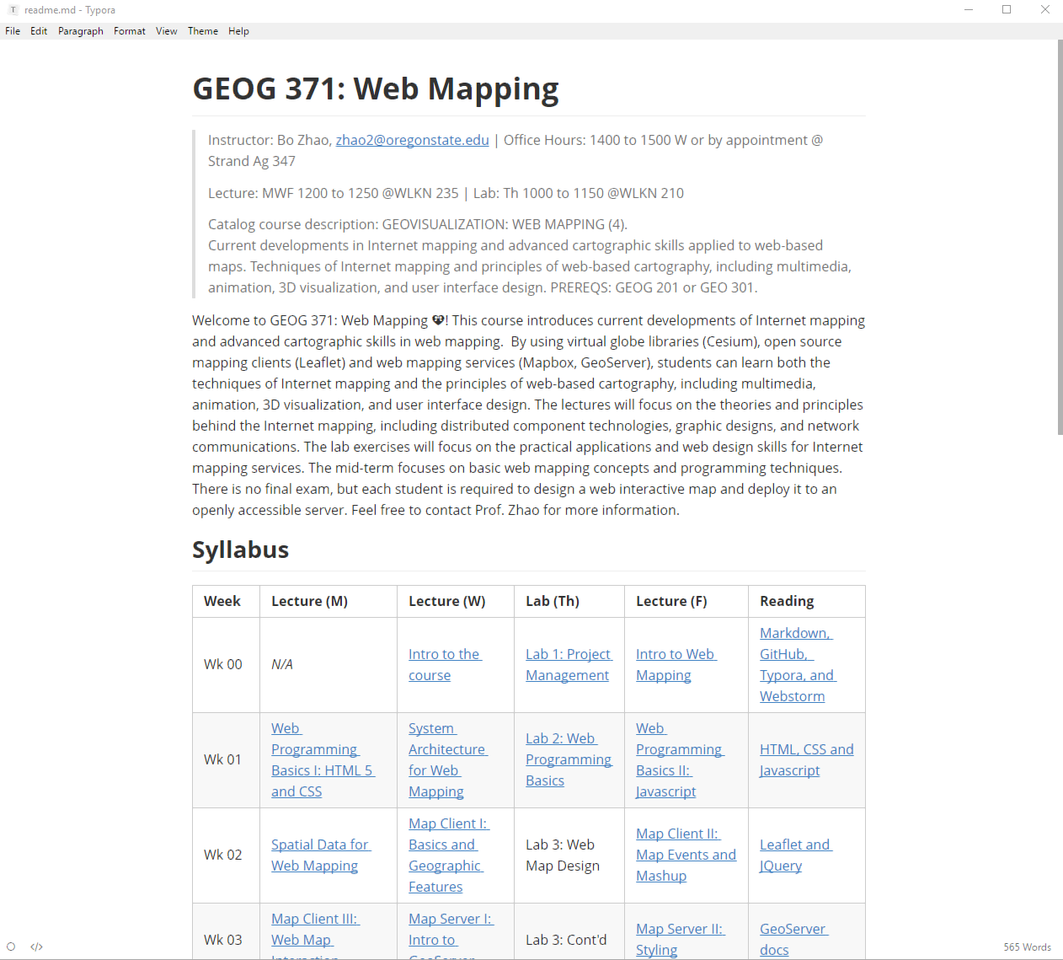
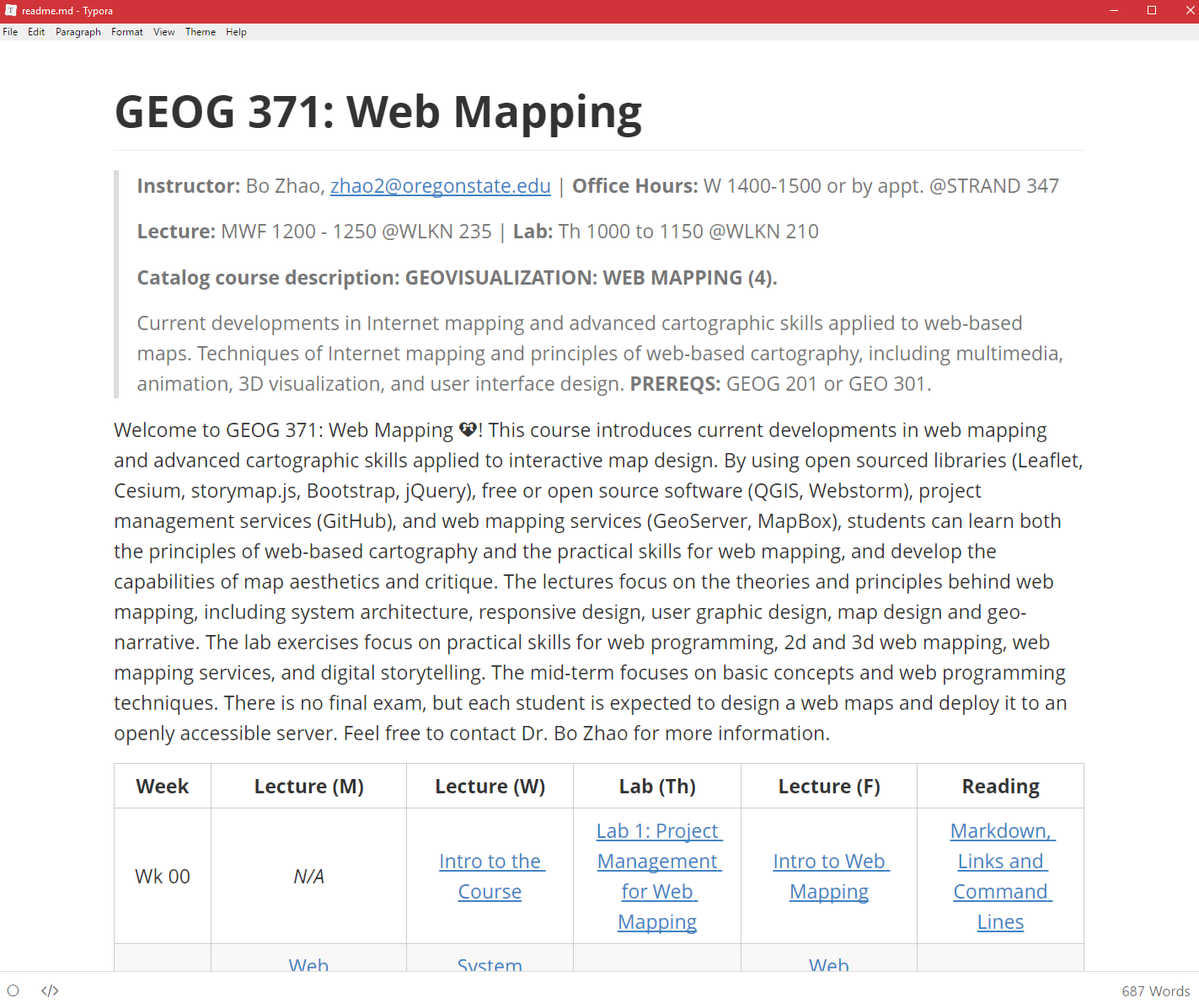
initial commit

diff --git a/labs/lab01/readme.md b/labs/lab01/readme.md
@@ -6,21 +6,21 @@
 >
 > **Assigned:** 09/21/2017 | **Due:** `09/28/2017 @11:59pm` | **Points Available** = 50
 
-Welcome to the lab session of GEOG 371: Web Mapping! As the first lab, we will introduce the Digital Earth Lab at Wilkinson 210, download the course material and more importantly, help you get familiar with the major operations on web mapping project management. You will start with installing the required software, registering a github account, and learn how to operate several software products, such as Webstorm, Typora, and Git. To test your learning outcomes, you will be asked to generate a  repository of your online resume on GitHub. Okay, let us get started!
+Welcome to the lab session of **GEOG 371: Web Mapping**! In this lab, we will briefly introduce the Digital Earth Lab at Wilkinson 210, download the course material and more importantly, help you get familiar with the major operations on project management for web mapping. In practice, you will start with installing the required software (on your own computer or laptop), registering a GitHub account, and learn how to use several software products, such as Webstorm, Typora, and Git. To test your learning outcomes, you will be asked to generate a  GitHub repository to publish your resume on the web. Okay, let us get started!
 
 # 1. Preparations
 
 ## 1.1 Digital Earth Lab @ Oregon State University
 
-Digital Earth Lab is a teaching facility primarily for GIS, remote sensing, cartography, numerical analysis, and scientific visualization. The classroom is a facility of the OSU College of Earth, Ocean, and Atmospheric Science and is supported by the OSU Media Services. The lab was originally funded by a NASA infrastructure grant to Sherm Bloomer (professor & Dean, College of Science) and Nick Pisias (professor & former associate dean of CEOAS). Digital Earth is located in 210 Wilkinson Hall and is one of the most advanced teaching facilities on the Oregon State campus. We have been operational since the beginning of Spring term, 1999.
+Digital Earth Lab is a teaching facility primarily for GIS, remote sensing, cartography, numerical analysis, and scientific visualization. The classroom is a facility of the OSU College of Earth, Ocean, and Atmospheric Science and is supported by the OSU Media Services. The lab was originally funded by a NASA infrastructure grant to Sherm Bloomer (Professor & Dean, College of Science) and Nick Pisias (Professor & former associate dean of CEOAS). Digital Earth is located in 210 Wilkinson Hall and is one of the most advanced teaching facilities on the Oregon State campus. We have been operational since the beginning of Spring term, 1999.
 
-The lab generally opens 8am-5pm , a detailed schedule can be found at [http://dusk.geo.orst.edu/de/de_teach.html](http://dusk.geo.orst.edu/de/de_teach.html). The manager of the facility is Cory Langhoff. If you need afterhours access, contact Cory Langhoff [langhofc@oregonstate.edu](mailto:langhofc@oregonstate.edu), or dial 7-2532 to make arrangements. Please ahead of time.
+The lab generally opens 8am-5pm , a detailed schedule can be found at [http://dusk.geo.orst.edu/de/de_teach.html](http://dusk.geo.orst.edu/de/de_teach.html). The manager of the facility is Cory Langhoff. If you need afterhours access, contact Cory by email [langhofc@oregonstate.edu](mailto:langhofc@oregonstate.edu), or dial 7-2532 to make arrangements.
 
 ## 1.2 Software Setup
 
-For this lab, your computer will need to install the following software:
+For this lab, you will use Webstorm, typora and git. Also these software products have already been installed in the computers in the Digital Earth Lab, except Typora (but you can always use text editor alternatives, such as Webstorm, Notepad, Brackets, and etc.). But I highly recommend you to install all these three.
 
-- **Webstorm:** A professional web mapping programming development environment ([Click here for the installation instruction](https://www.jetbrains.com/webstorm/buy/#edition=discounts)). and make sure you install the edition **for students and teachers**). Check a turoial on install Webstorm at [here](install_webstorm.md);
+- **Webstorm:** A professional web mapping programming development environment ([Click here for the installation instruction](https://www.jetbrains.com/webstorm/buy/#edition=discounts)). and make sure you install the edition **for students and teachers**). Check a tutorial on installing Webstorm at [here](install_webstorm.md);
 
 - **Typora:** An editor for composing Markdown files ([Click here to download Typora](https://typora.io/)). Typora is dedicated to process markdown files. It can browse, edit, and even convert markdown files to pdf or word documents; and
 
@@ -30,13 +30,13 @@ If **Git** is successfully installed, type `git` in command prompt (if you are a
 
 ![](img/git-command.png)
 
-Once you have `git`  up and running, you can sync the course material and also publish your own project repository.  We will talk about that in details in the following sections of this lab.
+Using `git`, you can synchronize the course materials and also publish your own GitHub repository.  We will talk about that later in this lab.
 
-### 1.3 Register a Github account
+### 1.3 Register a GitHub account
 
-1\. You will apply for a Github account for managing and sychronizing your web mapping project. If you do not have a Github account yet, please sign up at [https://www.github.com](https://www.github.com)
+1\. You will apply for a GitHub account for managing and synchronizing your web mapping project. If you do not have a GitHub account yet, please sign up at [https://www.github.com](https://www.github.com)
 
-> **Do you know the differences between Git and Github?**
+> **Do you know the differences between Git and GitHub?**
 >
 > **Git** is a version control system (VCS) for tracking changes in computer files and coordinating work on those files among multiple people. It is primarily used for software development, but it can be used to keep track of changes in any files. Git was created by **Linus Torvalds** in 2005 for development of the Linux kernel, with other kernel developers contributing to its initial development.
 >
@@ -44,22 +44,22 @@ Once you have `git`  up and running, you can sync the course material and also p
 
 ## 2\. Download the course material
 
-In this course, all the material is stored on GitHub. We will go through the steps how to download the course materials as below.
+In this course, all the material is stored on GitHub. We will go through the steps on how to download the material as below.
 
-1\. Every project is stored on GitHub as a repository. The repository for this course is located at [https://github.com/jakobzhao/geog371](https://github.com/jakobzhao/geog371). Please navigate to this url on a browser like Chrome. As shown, this course is created by me, my GitHub account name is `jakobzhao`, and the repository name is `geog371`. 
+1\. On GitHub, each project is stored as a project repository. The repository for this course is located at [https://github.com/jakobzhao/geog371](https://github.com/jakobzhao/geog371). Please navigate to this url on a browser such as `Chrome`. As indicated by the course website url, this repository is created by me; my GitHub account name is `jakobzhao`, while the repository name is `geog371`. 
 
 2\. On the front page of this repository, please click the green button named after `Clone or download` . To download the course material, you can click the `Download ZIP` button, as a result, a compressed file of the course material will be downloaded. 
 
-3\. However, we recommend you to clone this project repository. You can get the **git url** of this repository on the popped up information panel [https://github.com/jakobzhao/geog371.git](https://github.com/jakobzhao/geog371.git).
+3\. However, **we recommend you to clone this project repository**. You can get the **git url** of this repository on the same information window. The git url is [https://github.com/jakobzhao/geog371.git](https://github.com/jakobzhao/geog371.git).
 
-4\. Next, open your working space on your own computer through commend prompt if you are a Windows user or through terminal if you are a Mac or Linux user. For example, the working space of my computer is located as `C:\Workspace`.
+4\. Next, open your working space on your local computer through command prompt if you are on Windows or through terminal if you are on a Mac or Linux. For example, the working space of my computer is located as `C:\Workspace`.
 
 ```powershell
 C:\Users\[your_username]>cd C:\Workspace
 C:\Workspace>
 ```
 
-5\. Having the **git url**, we can use the command `git clone` in order to clone/download the repository of the course materials. 
+5\. Having the **git url**, we will need to use the command `git clone`to clone the GitHub repository. 
 
  ```powershell
 C:\Workspace\git clone https://github.com/jakobzhao/geog371.git
@@ -72,7 +72,7 @@ Resolving deltas: 100% (214/214), done.
 Checking out files: 100% (650/650), done.
  ```
 
-6\. To read the content in the downloaded repository, we need to `cd` into the directory of this repository. If you are on a Mac or Linux, type `ls` to check the file list of this repository, or try `dir` if you are on a Windows. Take windows for example.
+6\. To review the files and folders in the downloaded/cloned repository, you need to `cd` into the root directory of this repository. If you are on a Mac or Linux, type `ls` to check the file list of this repository, or try `dir` if you are on a Windows. Take windows for example.
 
 ```powershell
 C:\Workspace>cd geog371
@@ -87,7 +87,6 @@ C:\Workspace\geog371>dir
 09/19/2017  09:12 PM    <DIR>          ..
 09/19/2017  01:41 AM               412 .gitignore
 09/19/2017  09:49 PM    <DIR>          .idea
-09/19/2017  01:41 AM    <DIR>          img
 09/19/2017  02:19 AM    <DIR>          labs
 09/19/2017  01:41 AM    <DIR>          lectures
 09/19/2017  01:41 AM             7,816 LICENSE
@@ -96,16 +95,16 @@ C:\Workspace\geog371>dir
 09/19/2017  04:35 AM             6,011 readme.md
 09/19/2017  01:41 AM    <DIR>          resources
                3 File(s)         14,239 bytes
-               9 Dir(s)  903,569,551,360 bytes free
+               8 Dir(s)  903,569,551,360 bytes free
 ```
 
-In the root of this downloaded repository, there are folders like labs, lectures and readings, and files like readme.md and LICENSE. 
+In the root directory, there are folders like labs, lectures and readings, and files like readme.md and LICENSE. 
 
 7\. Next, we open the `readme.md` file using `Typora`.  If the previous steps work successfully, we can read the similar content as shown below.
 
 ![](img/typora_syllabus.png)
 
-8\. One benefits of hosting the course material on GitHub is that you can easily update your project repository by implementing a combination of two command lines `git checkout --force` and `git pull` in the root directory of the repository. Once the two commands are executed. An update notice will be shown as below.
+8\. Once the course material is hosted on GitHub, it can be easily shared with a larger community and update. To synchronize the course material on remote GitHub repository to your local computer, you need to implement two sequential command lines `git checkout --force` and `git pull` in the root directory of the repository. Once the two commands are executed. An update notice will be shown as below.
 
 ```powershell
 C:\Workspace\geog371>git checkout --force
@@ -125,36 +124,36 @@ Fast-forward
 
 Now, the course material on your local computer is updated. 
 
-> **Note:** In order to ensure you are reading the latest version of the lecture or lab handouts, you need to synchronize the course material, especially before class. 
+> **Note:** To ensure you are reading the latest version of the lecture or lab handouts, you need to regularly synchronize the course material, especially before class. 
 >
-> If you implement the above two commands in a Mac or Linux system, you might need to add `sudo` before `git`to preventing a lack of privilege issue. For example, `sudo git clone`, `sudo git checkout --force`. In general, the command `sudo` will assign the superuser privilege to the current command line. 
+> If you implement the above two commands in a Mac or Linux system, you might need to add `sudo` before `git`to a lack-of-privilege issue. For example, `sudo git clone`, `sudo git checkout --force`. In general, the command `sudo` will assign the superuser privilege to the command line. 
 
-9\. Before we jump to the next section, please
+9\. Before we jump to the next section, please:
 
 - Star the repository by pressing the `star` button on the top right, and;
 - Navigate to Dr. Zhao's front page at [https://github.com/jakobzhao](https://github.com/jakobzhao), and click the `Follow` button to be a follower. 
 
 ## 3\. Project management
 
-In this section, we will introduce a series of operations related to project management, such as create a project repository, compile a markdown file, and upload files to GitHub, and at last, publish a repository.
+In this section, we will introduce a series of operations related to project management, such as create a project repository, compile a markdown file, and upload files to GitHub, and at last, publish a repository. As a practice, we will build a GitHub repository for your online resume.
 
 ### 3.1 Create a repository for your project
 
-1\. Navigate to [https://github.com/new](https://github.com/new), and input the your repository name in the blank text box for `Repository name`. For example, the repository name of the course material is `geog371`. Here, please name your repository in the format of **[account_username].github.io**. So, if your account_username is `jakobzhao`, this repository name will be **jakobzhao.github.io**. 
+1\. Navigate to [https://github.com/new](https://github.com/new), and input your repository name in the blank text box for `Repository name`. Here, please name your repository in the format of **[account_username].github.io**. So, if your account_username is `jakobzhao`, this repository name will be **jakobzhao.github.io**. 
 
 ![""](img/create-new-repository-2.png)
 
-2\. Also, please makes sure you **CHECK** the box "Initialize this repository with a README". For other options, you can leave them by default. 
+2\. Besides, make sure you **CHECK** the box `Initialize this repository with a README`. You can leave other options by default. 
 
 ![](img/create-new-repository-3.png)
 
-3\. Next, click the `Create repository` button. A new repository `[account_username].github.io` is accordingly created. You can access this repository through the link `https://github.com/[account_username]/[account_username].github.io`. For example,  for the repository I just created, I can access the repository through the link [https://github.com/jakobzhao/jakobzhao.github.io](https://github.com/jakobzhao/jakobzhao.github.io).
+3\. Next, click the `Create repository` button. As a result, a new repository `[account_username].github.io` is created. You can access this repository through the link `https://github.com/[account_username]/[account_username].github.io`. For example,  you can access the repository I created through this link [https://github.com/jakobzhao/jakobzhao.github.io](https://github.com/jakobzhao/jakobzhao.github.io).
 
-### 3.2 Compile a Markdown file
+### 3.2 Craft a Markdown file
 
-1\. On your local computer, please create a file, and name it `resume.md`.
+1\. On your local computer, create a text file, and name it `resume.md`.
 
-2\. Open this file `resume.md` with `Typora`. In the editor, you can start to craft your resume. If you are not familiar with Markdown, copy and paste the template below to get started.
+2\. Open this file `resume.md` with `Typora`. In the Typora's editor, you can work on your resume. If you are not familiar with Markdown, please refer to a tutorial at [here](https://guides.github.com/features/mastering-markdown/). Or you can start with copying and pasting the template below.
 
 ```markdown
 #Your Name
@@ -218,27 +217,29 @@ Summary of your role
 ```
 >**Note:** This resume template is from [http://www.jasonfilley.com/resumeinmarkdown.html](http://www.jasonfilley.com/resumeinmarkdown.html).
 
-3\. In fact, you can use any text editor to generate Markdown files. If you do not have `Typora` at hand, you can also use `Webstorm` to craft Markdown files. To enable `Webstorm` to recognize the markdown syntax, you need to install a plugin named `Markdown Navigator`. To do that, open `Webstorm`, on the top menu, navigate through `File->Settings...`. In the popped up wind, click `Plugins` tab, and then click the "install jetbrain plugin.." on the bottom left of the window. In the newly poped-up window, search "markdown navigator" in the search box, as a result, the plugin "Markdown Navigator" appears, and you will need to install this plugin by pressing the green botton "install". Once installed, you will need to restart `WebStorm` to activiate this change. Please let the instructor know if you meet any difficulty in installing this plugin.
+3\. In fact, you can use any text editor to generate Markdown files. If you do not have `Typora` at hand, you can use `Webstorm` as well. To enable `Webstorm` to recognize the markdown syntax, you will need to install a plugin named `Markdown Navigator`. To do that, open `Webstorm`, on the top menu, navigate through `File->Settings...`. In the popped up window, click `Plugins` tab, and then click the `install jetbrain plugin...` on the bottom left of the window. In the newly popped-up window, search "markdown navigator" in the search box, as a result, the plugin "Markdown Navigator" will be found out. Then, you will need to install this plugin by pressing the green button `install`. Once installed, you might want to restart `WebStorm` to activate this change. Please let the instructor know if you meet any difficulty in installing this plugin.
 
 ### 3.3 Upload files to GitHub
 
-Once you have drafted out your resume in the `resume.md` file. You will upload this file to the **root** of the project repository `https://github.com/[account_username]/[account_username].github.io` on GitHub. You can use two ways as listed below interchangeably.
+Once you have drafted out your resume in the `resume.md` file. You will upload this file to the **root** of the project repository `https://github.com/[account_username]/[account_username].github.io` . In general, there are three solutions to complete this task, we will introduce them one by one.
 
 #### 3.3.1 Drag & drop
 
-1\. Since the `resume.md` file will be uploaded to the root of the repository, you need to navigate to the front page of your repository `https://github.com/[account_username]/[account_username].github.io` using a web browser such as Chrome.
+1\. Open a web browser such as `Chrome`, navigate to the front page of the repository you have just created.
 
-2\. Next, use your mouse to drag the `resume.md` file to the front page of the project repository. Once you see a notice saying **Drop to upload your files**, you can now release your mouse. A new interface will appear as below. Certainly, you can drag and drop multiple files and/or folders. In this lab, we just upload one single file.
+2\. Next, use your mouse to drag the `resume.md` file to the front page. Once you see a notice saying **Drop to upload your files**, you can then release your mouse. A new interface will appear as below. 
+
+> **Note:** Certainly, you can drag and drop multiple files and/or folders. In this lab, we just upload one single file.
 
 ![](img/after-the-drop.png)
 
-3\. Before you press the green button `Commit Changes`, you can add a name and/or some descriptions for this commit. It will help you organize and keep a record of your repository.
+3\. Before pressing the green button `Commit Changes`, you might want to add a title and/or some descriptions for this commit. It will help you organize your commits.
 
 #### 3.3.2 Git push
 
-You can also upload the `resume.md` through `git push` command.
+You can also upload the `resume.md` through `git push` command on either command prompt or terminal.
 
-1\. Download the repository   `https://github.com/[account_username]/[account_username].github.io`  following the instruction in Section 2 ***"Download the course material”***.
+1\. Download the repository  `https://github.com/[account_username]/[account_username].github.io`  following the instruction in Section 2 ***"Download the course material”***.
 
 2\. In the root directory of the downloaded repository, please copy the edited `resume.md` to the root.
 
@@ -246,82 +247,68 @@ You can also upload the `resume.md` through `git push` command.
 
 ```powershell
 c:\Workspace\jakobzhao.github.io>git commit -m "update the resume.md"
-[master a85f998] update the resume.md
- 1 files changed, 106 insertions(+), 32 deletions(-)
- create mode 100644 labs/lab01/img/after-the-drop.png
- 
 c:\Workspace\geog371>git push
-fatal: TaskCanceledException encountered.
-   A task was canceled.
 Username for 'https://github.com': jakobzhao
 Password for 'https://jakobzhao@github.com':
-Counting objects: 9, done.
-Delta compression using up to 8 threads.
-Compressing objects: 100% (9/9), done.
-Writing objects: 100% (9/9), 99.58 KiB | 0 bytes/s, done.
-Total 9 (delta 4), reused 0 (delta 0)
-remote: Resolving deltas: 100% (1/1), completed with 4 local objects.
-To https://github.com/jakobzhao/jakobzhao.github.io.git
-   b237d06..a85f998  master -> master
 ```
 
-> **Note:** Again, if you use a Mac or Linux, you might need to add `sudo` in front of the command line to avoid the privilege deny issue.
+> **Note:** Again, if you use a Mac or Linux, you might need to add `sudo` in front of the command line to avoid the privilege deny issue. Besides, the command prompt or terminal may ask you for GitHub username and password, please be prepared with such information.
 >
-> Also, the command prompt or terminal may ask you for GitHub username and password, please be prepared with such information.
 
 #### 3.3.3 WebStorm Commit
 
-We can also use Webstorm to upload files to github repository or more geranlly, commit changes. Compared with the first two solutions, I personally recommend you use Webstrom if you prefer graphic user interfaces and work on your local computer.
+We can also use Webstorm to upload files to GitHub repository or more generally, commit changes. Compared with the first two solutions, I recommend you use Webstorm if you prefer graphic user interfaces.
 
-1\. Download the repository   `https://github.com/[account_username]/[account_username].github.io`  following the instruction in Section 2 ***"Download the course material”***.
+1\. Download the repository  `https://github.com/[account_username]/[account_username].github.io`  following the instruction in Section 2 ***"Download the course material”***.
 
 2\. In the root directory of the downloaded repository, please copy the edited `resume.md` to the root.
 
-3\. Open the prorgam `Webstorm`. By default, the welcome window will pop up. In this welcome window, click `Open` button on the bottom right. Then, another new window `Open File or Project` will pop up. Seelct the downloaded repository. The name should be in the format of `[account_username].github.io`.
+3\. Open the program `Webstorm`. By default, the welcome window will pop up. In this welcome window, click `Open` button on the bottom right. Then, another new window `Open File or Project` will pop up. Select the downloaded repository. The name should be in the format of `[account_username].github.io`.
 
 ![](img/open_webstorm_project.png)
 
 
-4\. Once you open this repository, you can edit the `resume.md`.
+4\. Once you open this repository, you can edit the `resume.md` in Webstorm.
 
-5\. To update any edit changes, on the top menu, Click `VCS` on the top menu, and then 'commit...` on the dropdown menu.
+5\. To update any edit changes, on the top menu, Click `VCS` on the top menu, and then `commit...` on the dropdown menu.
 
-6\. On the poped up `Commit Changes` window, make sure you check the `Unversioned Files` box if there is, also, you need to leave the `Commit Message` and input the name of the author who made this change.
+6\. On the popped-up `Commit Changes` window, make sure you check the `Unversioned Files` box if there is, also, you need to leave some message in the `Commit Message` textbox and input the name of the author who made this change.
 
 ![](img/commit_change.png)
 
-7\. Before you commit, hover your mouse on the `Commit` button, then a dropdown menu will show up, **Choose `Commit and Push...`**. Then on the newly poped up window, click "push" to finish.
+7\. Before you commit, hover your mouse on the `Commit` button, then a dropdown menu will show up, **Choose `Commit and Push...`**. Then on the newly popped up window, click `push` to finish.
 
 
 > **Note**: As you might already aware of, the first two steps are as same as those in the solution 2. The difference is, solution 2 works on a terminal/command prompt environment (a command-lline user interface), while solution 3 works in Webstorm (a graphic user interface).
 >
-> Using either of the three solutions, you can upload your resume or any other files to github. Then, log on to this repository on github to see whether the uploaded content is applied.
-
+> Using either of the three solutions, you can upload your resume or any other files to GitHub. Then, log on to this repository on GitHub to see whether the uploaded content is applied.
+>
+> Now you have already known how to commit a change. In practice, you will use this operation very frequently. Other than committing changes, you may also need to synchronize your latest version of your GitHub repository. Please think about how can we do that on Webstorm.
 
 ### 3.4 Publish your repository
 
-Once you uploaded the `resume.md` to the root, you can see your resume showing on the front page. Moreover, GitHub provide a new function named **GitHub Page** that converts a markdown file directly as a web page. Because your resume is located at the root of the repository named  `[account_username].github.io`  , you can directly access your resume by visiting `http://[account_username].github.io`  if you implement the following steps.
+Once the `resume.md` is uploaded to the root of the GitHub Repository, you can see this file listed in the root. Moreover, GitHub provide a new function named **GitHub Page** that converts a markdown file as a web page. Because your resume is located at the root of the repository, you can directly access your resume by visiting `http://[account_username].github.io/resume` if you implement the following steps.
 
 1\. please click the `Settings`tab on the top bar of the repository front page. 
 
-2\. On the “GitHub Pages” Section, please click on the  `Source`  dropdown list and choose `master branch`.  Next, press the `Save` button.
+2\. On the `GitHub Pages` Section, please click the  `Source`  dropdown list and choose `master branch`.  Next, press the `Save` button.
 
-3\. It usually takes several seconds to 1~2 minutes to apply this setting. If this setting is activated, you can read your resume from `http://[account_username].github.io`.
+3\. It usually takes several seconds to 1~2 minutes to apply this setting. If this setting is activated, you can read your resume from `http://[account_username].github.io/resume`.
 
 ## 4. Deliverable
 
-Before your submission of this PE (Practical Exercise), please make sure both the **github repository** and the **github page** work properly. In this lab, you need to submit the url of the github repository (it should be in the format of `https://www.github.com/[account_username]/[account_username].github.io`) to the **Canvas Dropbox** of this course. To do that, check the item of this PE on the assignment tab, and then press the `Submit Assignment` button. Please contact the instructor if you have any difficulty in submitting the url link. Here are the grading criteria:
+Before submitting this PE (Practical Exercise), please make sure both the **GitHub repository** and the **GitHub page** work properly. In this lab, you are excepted to submit the url of the GitHub repository to the **Canvas Dropbox** of this course. This url should be in the format of `https://www.github.com/[account_username]/[account_username].github.io`. To do that, check the item of this PE on the assignment tab, and then press the `Submit Assignment` button. Please contact the instructor if you have any difficulty in submitting the url link. Here are the grading criteria:
 
-1\. Register a github account, follow the instructor's github account, and also `star` the course github/website. (6 POINTS)
+1\. A GitHub account is registered, You have followed the instructor's GitHub account and `star-ed` the course GitHub repository. (6 POINTS)
 
 2\. The repository should be named after `[account_username].github.io`. (5 POINTS)
 
-3\. The github page function of the repository should work properly. That said, your online resume can be visited from `https://[account_username].github.io/resume` (5 POINTS);
+3\. The `GitHub page` function of the repository should work properly. That said, your resume can be visited from `https://[account_username].github.io/resume` (5 POINTS);
 
-4\. To hone your skills in Markdown, the resume could be built upon the template that was shown in `Section 3.2`, but we still encourage you customize your resume. In terms of the format, your online resume should contain:
+4\. To hone your skills in generating Markdown files, the resume could be built upon the template that was shown in `Section 3.2`, but we still encourage you customize your resume. In terms of the format, your online resume should contain:
 
 * different levels of headers (4 POINTS);
-* blockquotes (4 POINTS);
+* block quotes (4 POINTS);
 * url links (4 POINTS);
 * one or several images (10 POINTS);
 * A list (4 POINTS);
